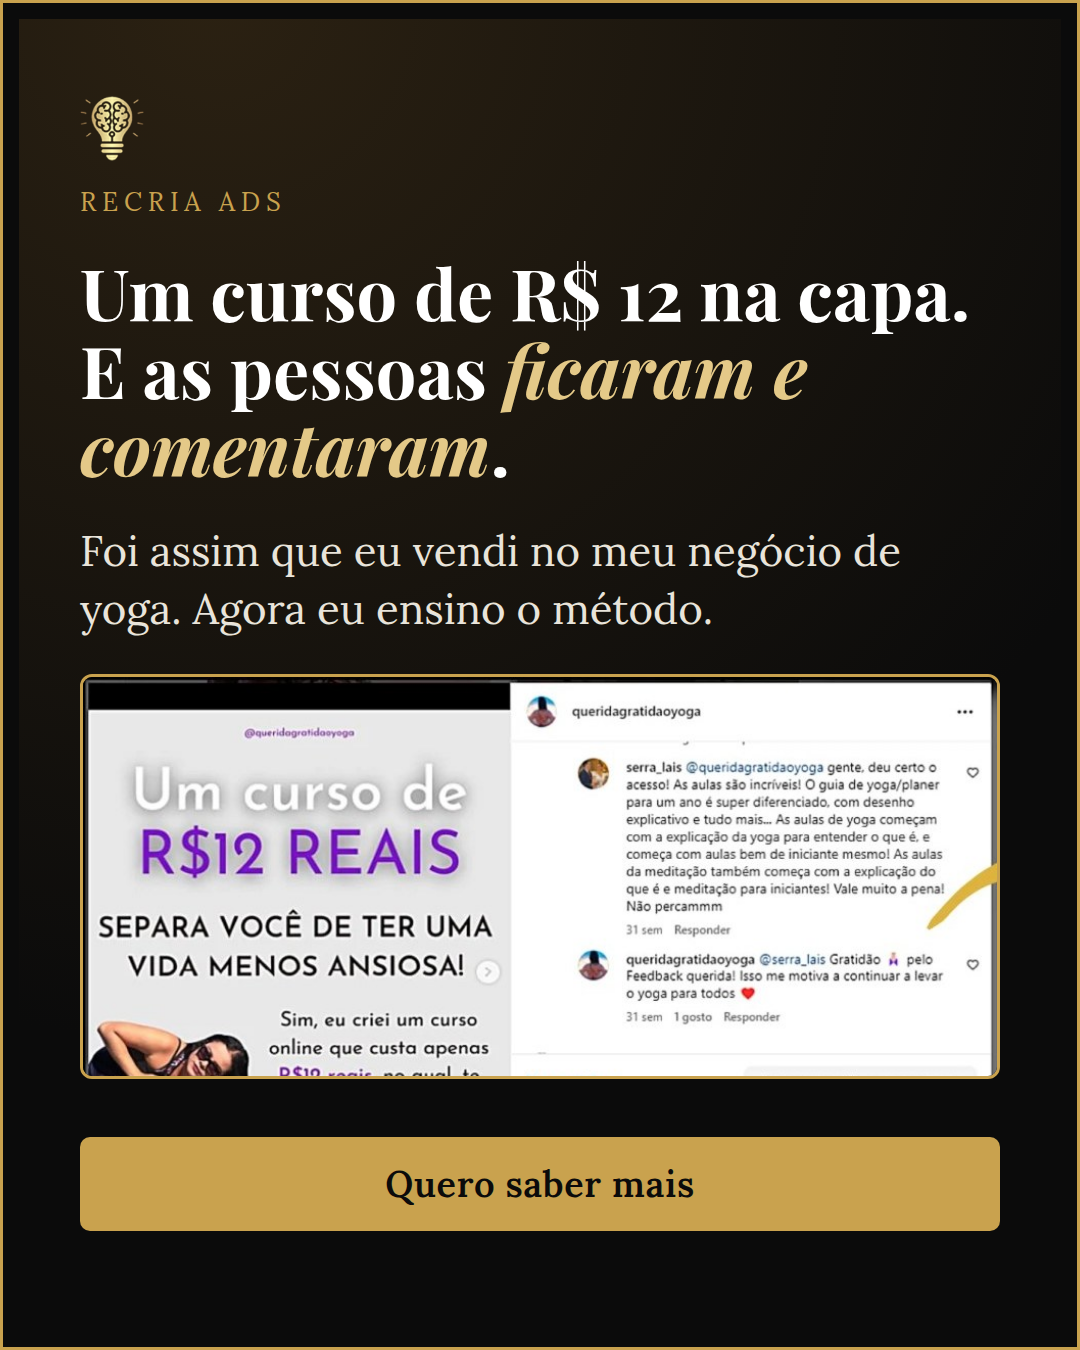
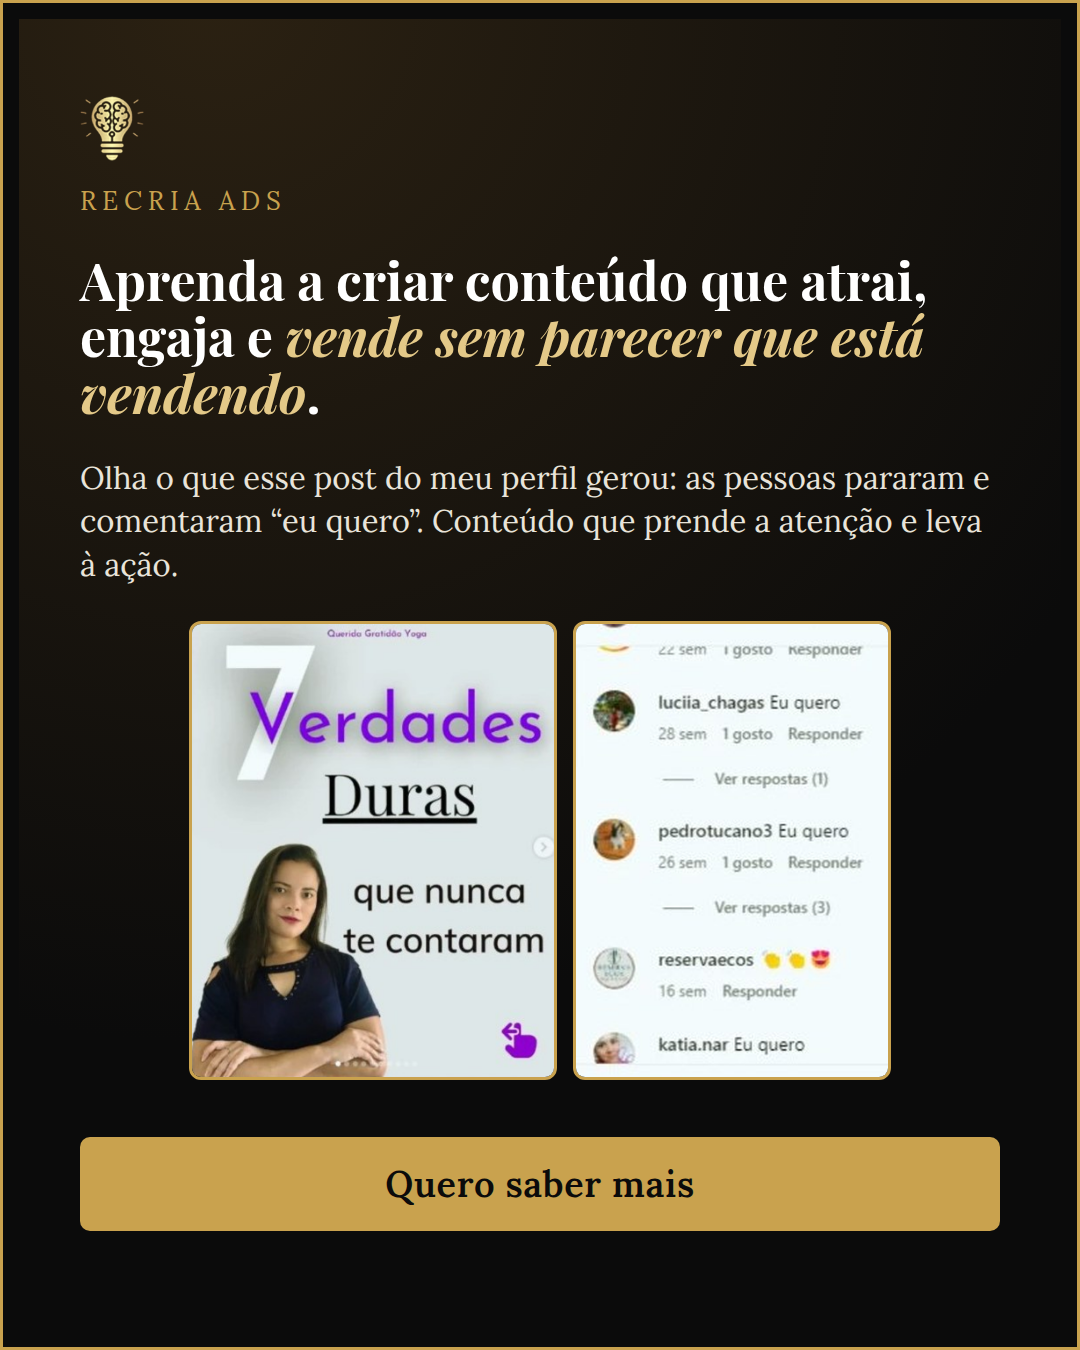
Criativo 3 do Recria Ads com o post 7 Verdades Duras
Claude-Session: https://claude.ai/code/session_01DxpPKgzfVt8WYQSkZW1Msu

Changed region(s): [[0.0611, 0.1867, 0.9472, 0.8089], [0.1222, 0.1244, 0.1528, 0.1556]]

diff --git a/recria/criativos-estaticos/gerar-recria-ads.js b/recria/criativos-estaticos/gerar-recria-ads.js
@@ -1,7 +1,7 @@
 const {chromium}=require('/opt/node-tools/node_modules/playwright');const fs=require('fs');
 const D=__dirname;const F="file:///home/user/recria-clientes/recria/ebooks/_base/fonts/";
 const ICON="file:///home/user/-site-institucional-recria/assets/icone.png";
-const PROVA="file:///home/user/-site-institucional-recria/recria-ads/assets/prova-carrossel-curso.jpg";
+const P1="file://"+D+"/recria-ads/_fontes/post-7verdades.png",P2="file://"+D+"/recria-ads/_fontes/comentarios-eu-quero.png";
 const FORMATS={
  'feed-4x5':{w:1080,h:1350,pad:'96px 80px 96px',ic:64,k:26,h1:[100,52],s:[42,26],pill:44,cta:36,ctap:24,gap:22},
  'stories-9x16':{w:1080,h:1920,pad:'270px 84px 350px',ic:92,k:30,h1:[112,64],s:[46,30],pill:58,cta:46,ctap:32,gap:30}
@@ -9,7 +9,7 @@ const FORMATS={
 const ITEMS=[
 ["ads-1-dor","Recria Ads","Você cria conteúdo e anúncio, mas <em>quase ninguém compra</em>?","Isso não é falta de esforço: é que o jeito de vender mudou. Aprenda a criar conteúdo e anúncio sem cara de anúncio e aumente as vendas do seu negócio.","","Quero saber mais",""],
 ["ads-2-virada","Recria Ads","Todo mundo pula anúncio. Mas para por uma <em>boa história</em>.","Aprenda a criar conteúdos e anúncios sem parecer aquele vendedor chato. Venda com leveza e naturalidade, até em conteúdos que não são de venda direta.","","Saiba mais clicando aqui",""],
-["ads-3-prova","Recria Ads","Um curso de R$ 12 na capa. E as pessoas <em>ficaram e comentaram</em>.","Foi assim que eu vendi no meu negócio de yoga. Agora eu ensino o método.","","Quero saber mais","prova"]
+["ads-3-prova","Recria Ads","Aprenda a criar conteúdo que atrai, engaja e <em>vende sem parecer que está vendendo</em>.","Olha o que esse post do meu perfil gerou: as pessoas pararam e comentaram “eu quero”. Conteúdo que prende a atenção e leva à ação.","","Quero saber mais","prova"]
 ];
 function css(f){return `
 @font-face{font-family:'Lora';font-weight:600;src:url(${F}lora-latin-600-normal.woff2)}
@@ -26,14 +26,15 @@ h1{font-family:'Playfair Display',serif;font-weight:700;font-size:${f.h1[0]}px;l
 h1 em{color:#E4C988}
 .s{font-size:${f.s[0]}px;line-height:1.4;color:#e9e4da;margin-top:${f.gap+6}px}
 .mid{flex:1;display:flex;flex-direction:column;justify-content:center;gap:${f.gap*1.6}px;padding:${f.gap}px 0}.mid h1,.mid .s,.mid .ph,.mid .cta{margin-top:0}.mid .cta{margin-top:${f.gap}px}
-.ph{margin-top:${f.gap+6}px;border:3px solid #C9A24E;border-radius:12px;overflow:hidden;max-height:${f.h*0.3}px}
-.ph img{width:100%;display:block;object-fit:cover;object-position:top}
+.ph{display:flex;gap:16px;justify-content:center}
+.ph img{border:3px solid #C9A24E;border-radius:12px;display:block;height:${f.h>1500?f.h*0.2:f.h*0.34}px;width:auto;max-width:48%}
+
 .b{padding-top:${f.gap}px}
 .p{display:inline-block;border:3px solid #C9A24E;color:#E4C988;font-weight:600;font-size:${f.pill}px;line-height:1.1;padding:12px 30px;border-radius:10px;margin-bottom:${f.gap}px}
 .cta{background:#C9A24E;color:#0b0b0b;font-weight:700;font-size:${f.cta}px;text-align:center;padding:${f.ctap}px;border-radius:10px;letter-spacing:.02em}
 `;}
 function html(it,f){const [n,k,h,s,p,c,x]=it;
- return `<!doctype html><meta charset="utf-8"><style>${css(f)}</style><div class="c"><img class="ic" src="${ICON}"><div class="mid"><div class="k">${k}</div><h1>${h}</h1><div class="s">${s}</div>${x==='prova'?`<div class="ph"><img src="${PROVA}"></div>`:''}<div class="cta">${c}</div></div><div class="bd"></div></div>`;}
+ return `<!doctype html><meta charset="utf-8"><style>${css(f)}</style><div class="c"><img class="ic" src="${ICON}"><div class="mid"><div class="k">${k}</div><h1>${h}</h1><div class="s">${s}</div>${x==='prova'?`<div class="ph"><img src="${P1}"><img src="${P2}"></div>`:''}<div class="cta">${c}</div></div><div class="bd"></div></div>`;}
 (async()=>{const b=await chromium.launch({executablePath:'/opt/pw-browsers/chromium'});
 for(const [fn,f] of Object.entries(FORMATS)){fs.mkdirSync(`${D}/recria-ads/${fn}`,{recursive:true});
  const pg=await b.newPage({viewport:{width:f.w,height:f.h}});
